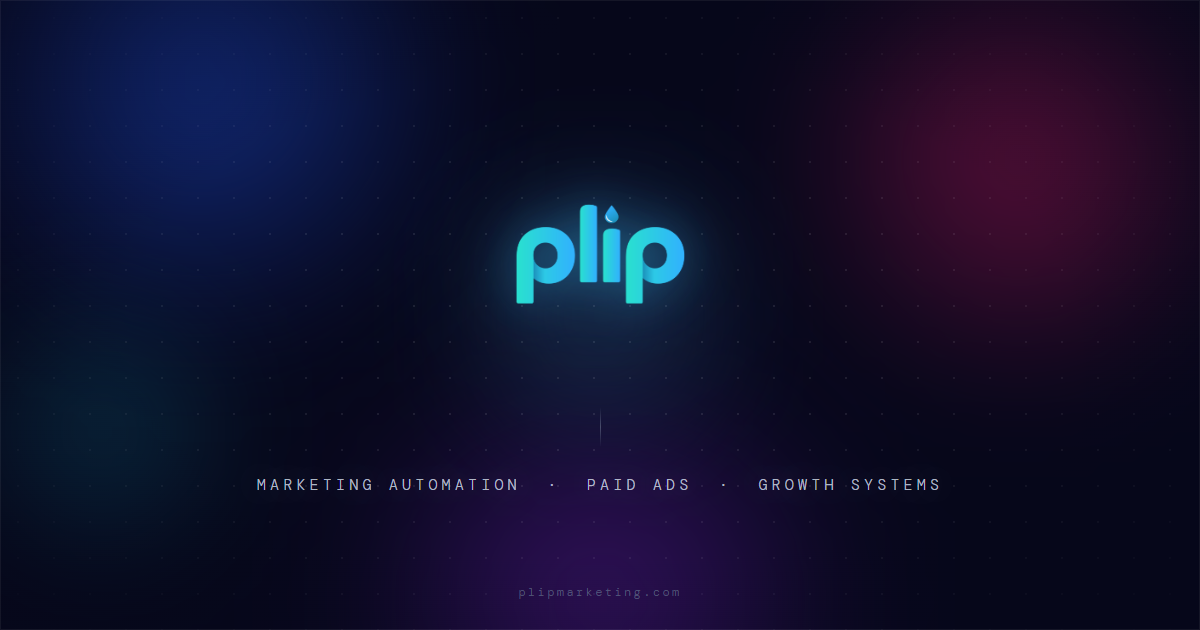
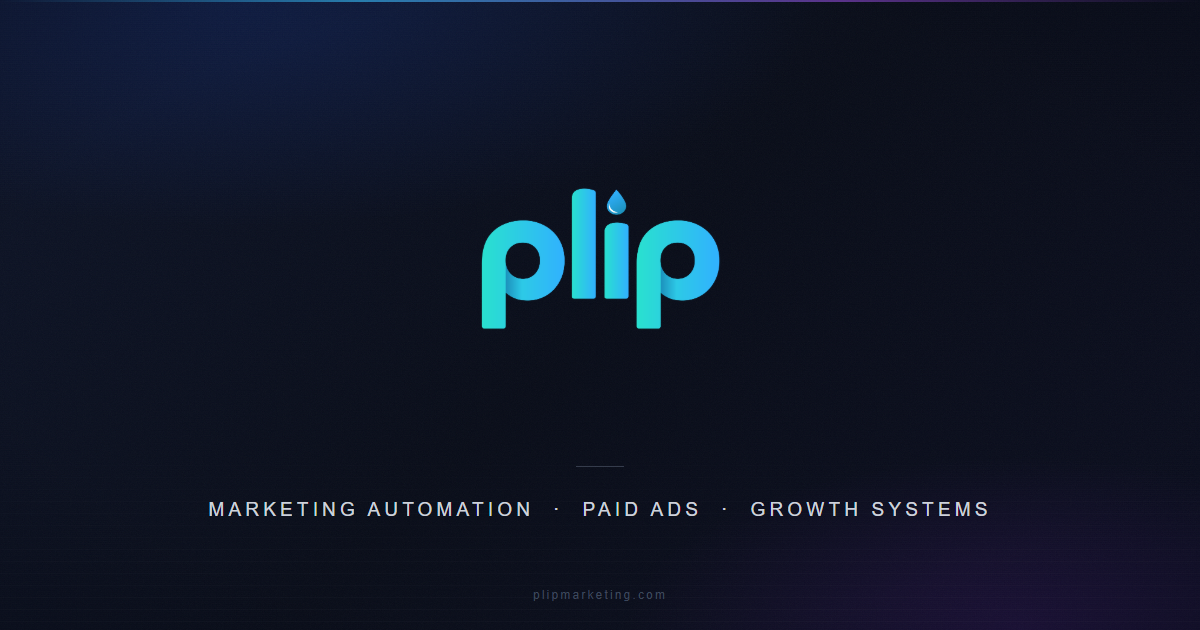
Redesign OG image — clean, professional, readable
Replaced glowing aurora blobs with a refined directional gradient, SVG grain texture, and subtle horizontal line detail. Logo scaled to 340px for clear thumbnail visibility. Tagline text at 19px white for legibility. Bumped cache-bust to v=3.

diff --git a/index.html b/index.html
@@ -17,13 +17,13 @@
     <meta property="og:url" content="https://www.plipmarketing.com/" />
     <meta property="og:title" content="Plip | Marketing Automation, Paid Ads &amp; Growth Systems" />
     <meta property="og:description" content="Plip builds the marketing systems behind business growth — automation, paid advertising, websites, YouTube management, and branding for businesses ready to scale." />
-    <meta property="og:image" content="https://www.plipmarketing.com/images/og-image.png?v=2" />
+    <meta property="og:image" content="https://www.plipmarketing.com/images/og-image.png?v=3" />
 
     <!-- Twitter / X card -->
     <meta name="twitter:card" content="summary_large_image" />
     <meta name="twitter:title" content="Plip | Marketing Automation, Paid Ads &amp; Growth Systems" />
     <meta name="twitter:description" content="Plip builds the marketing systems behind business growth — automation, paid advertising, websites, YouTube management, and branding for businesses ready to scale." />
-    <meta name="twitter:image" content="https://www.plipmarketing.com/images/og-image.png?v=2" />
+    <meta name="twitter:image" content="https://www.plipmarketing.com/images/og-image.png?v=3" />
   </head>
   <body>
     <div id="root"></div>
